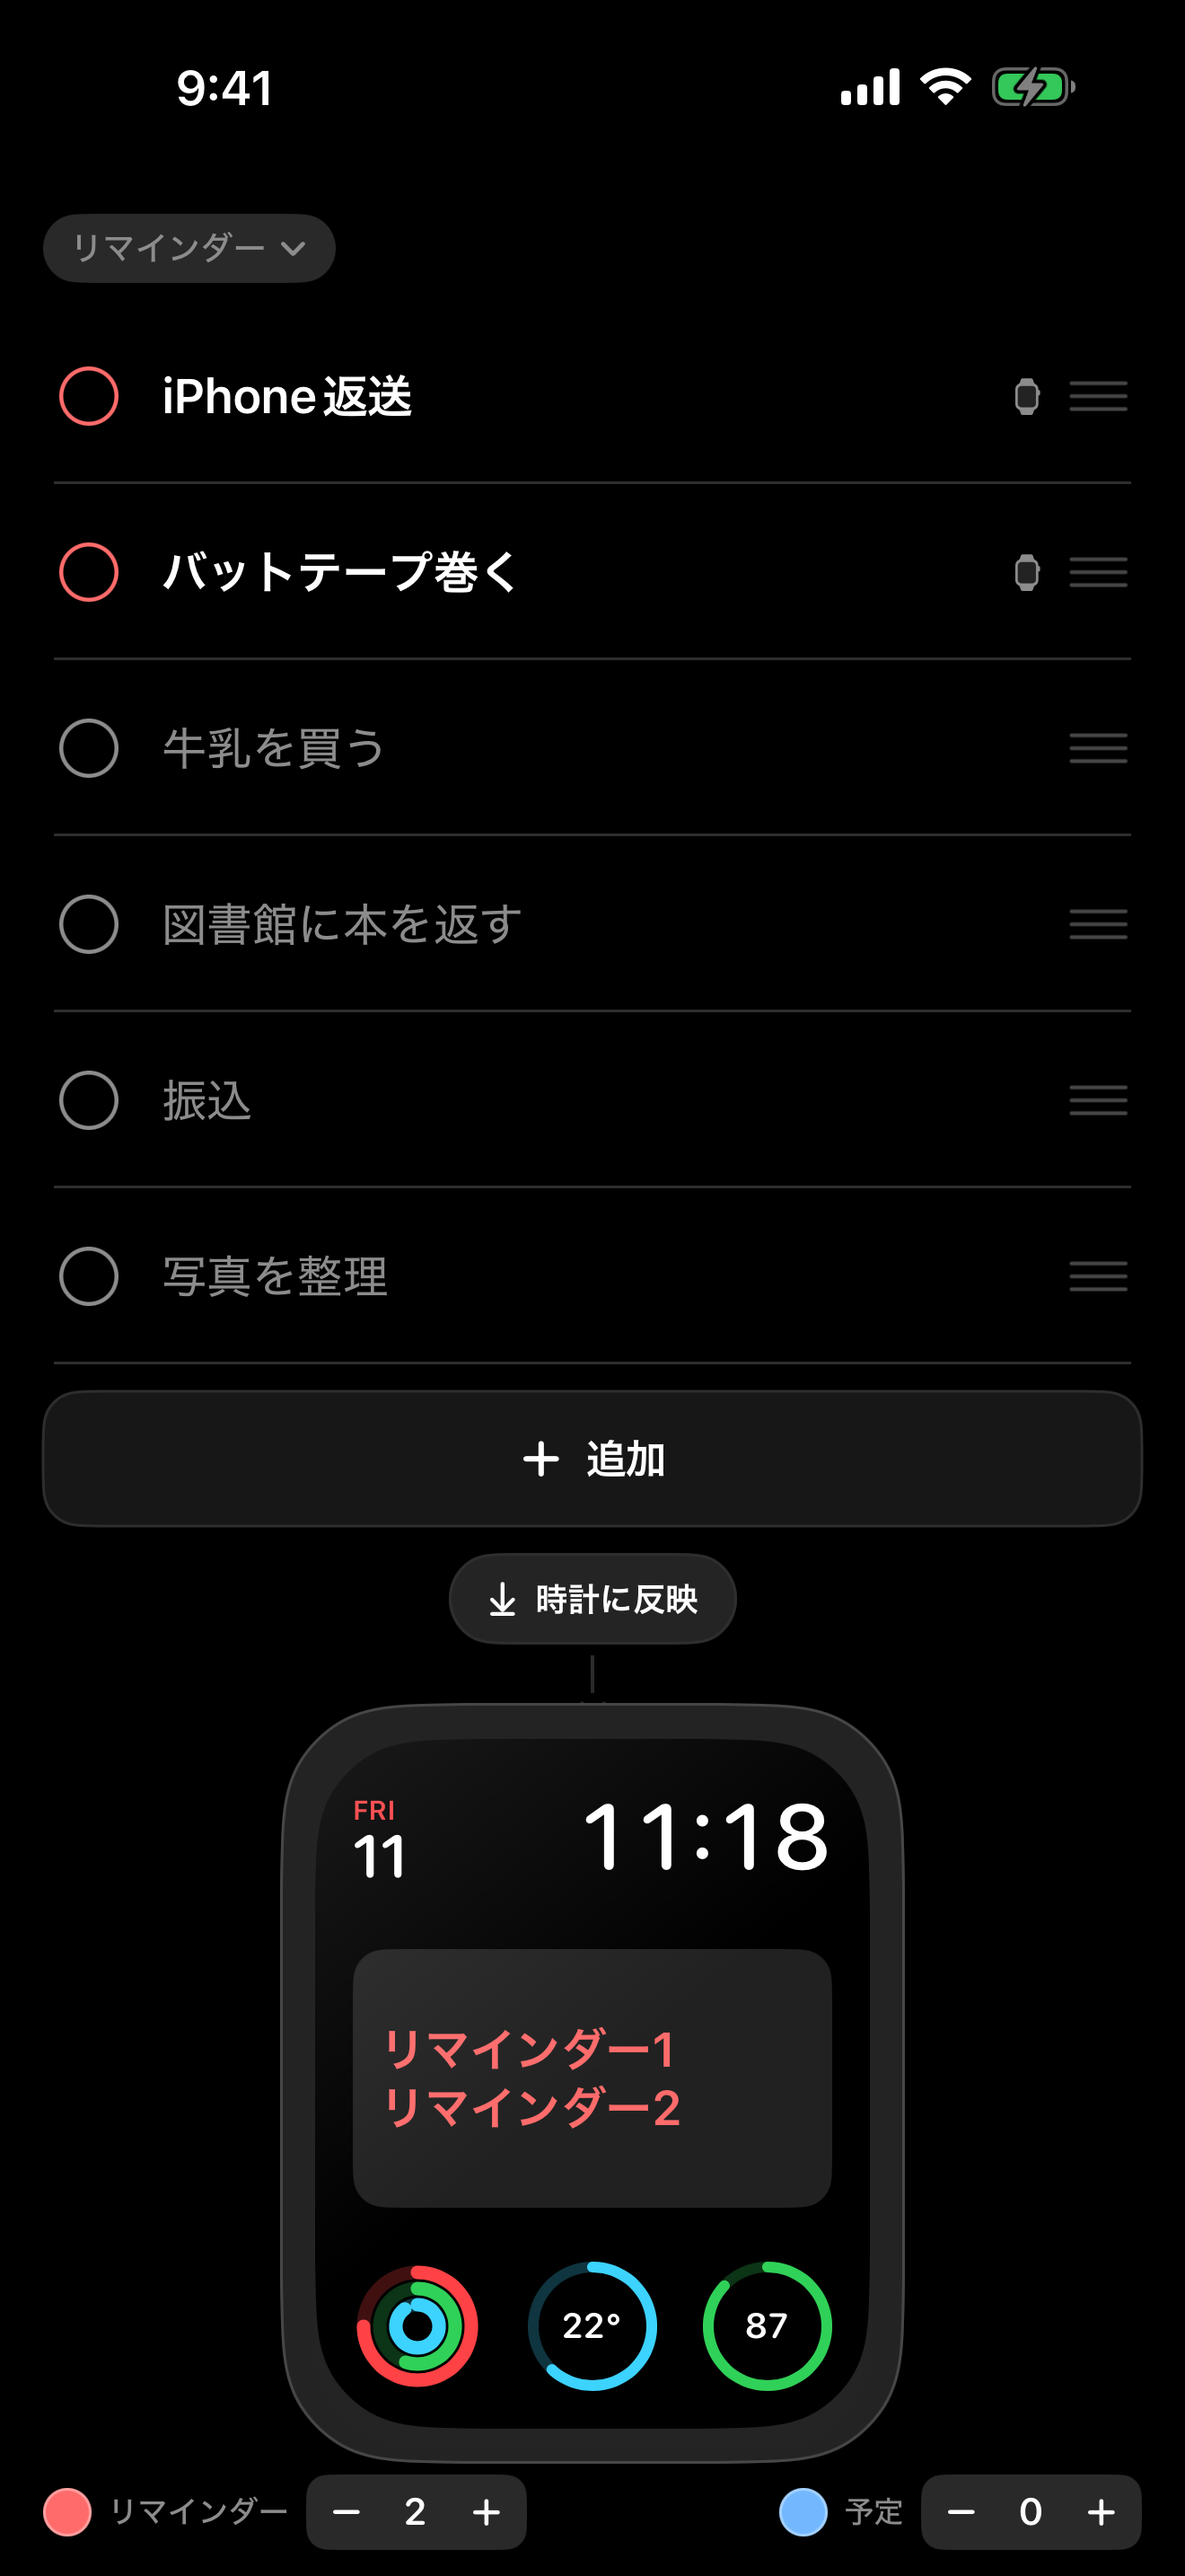
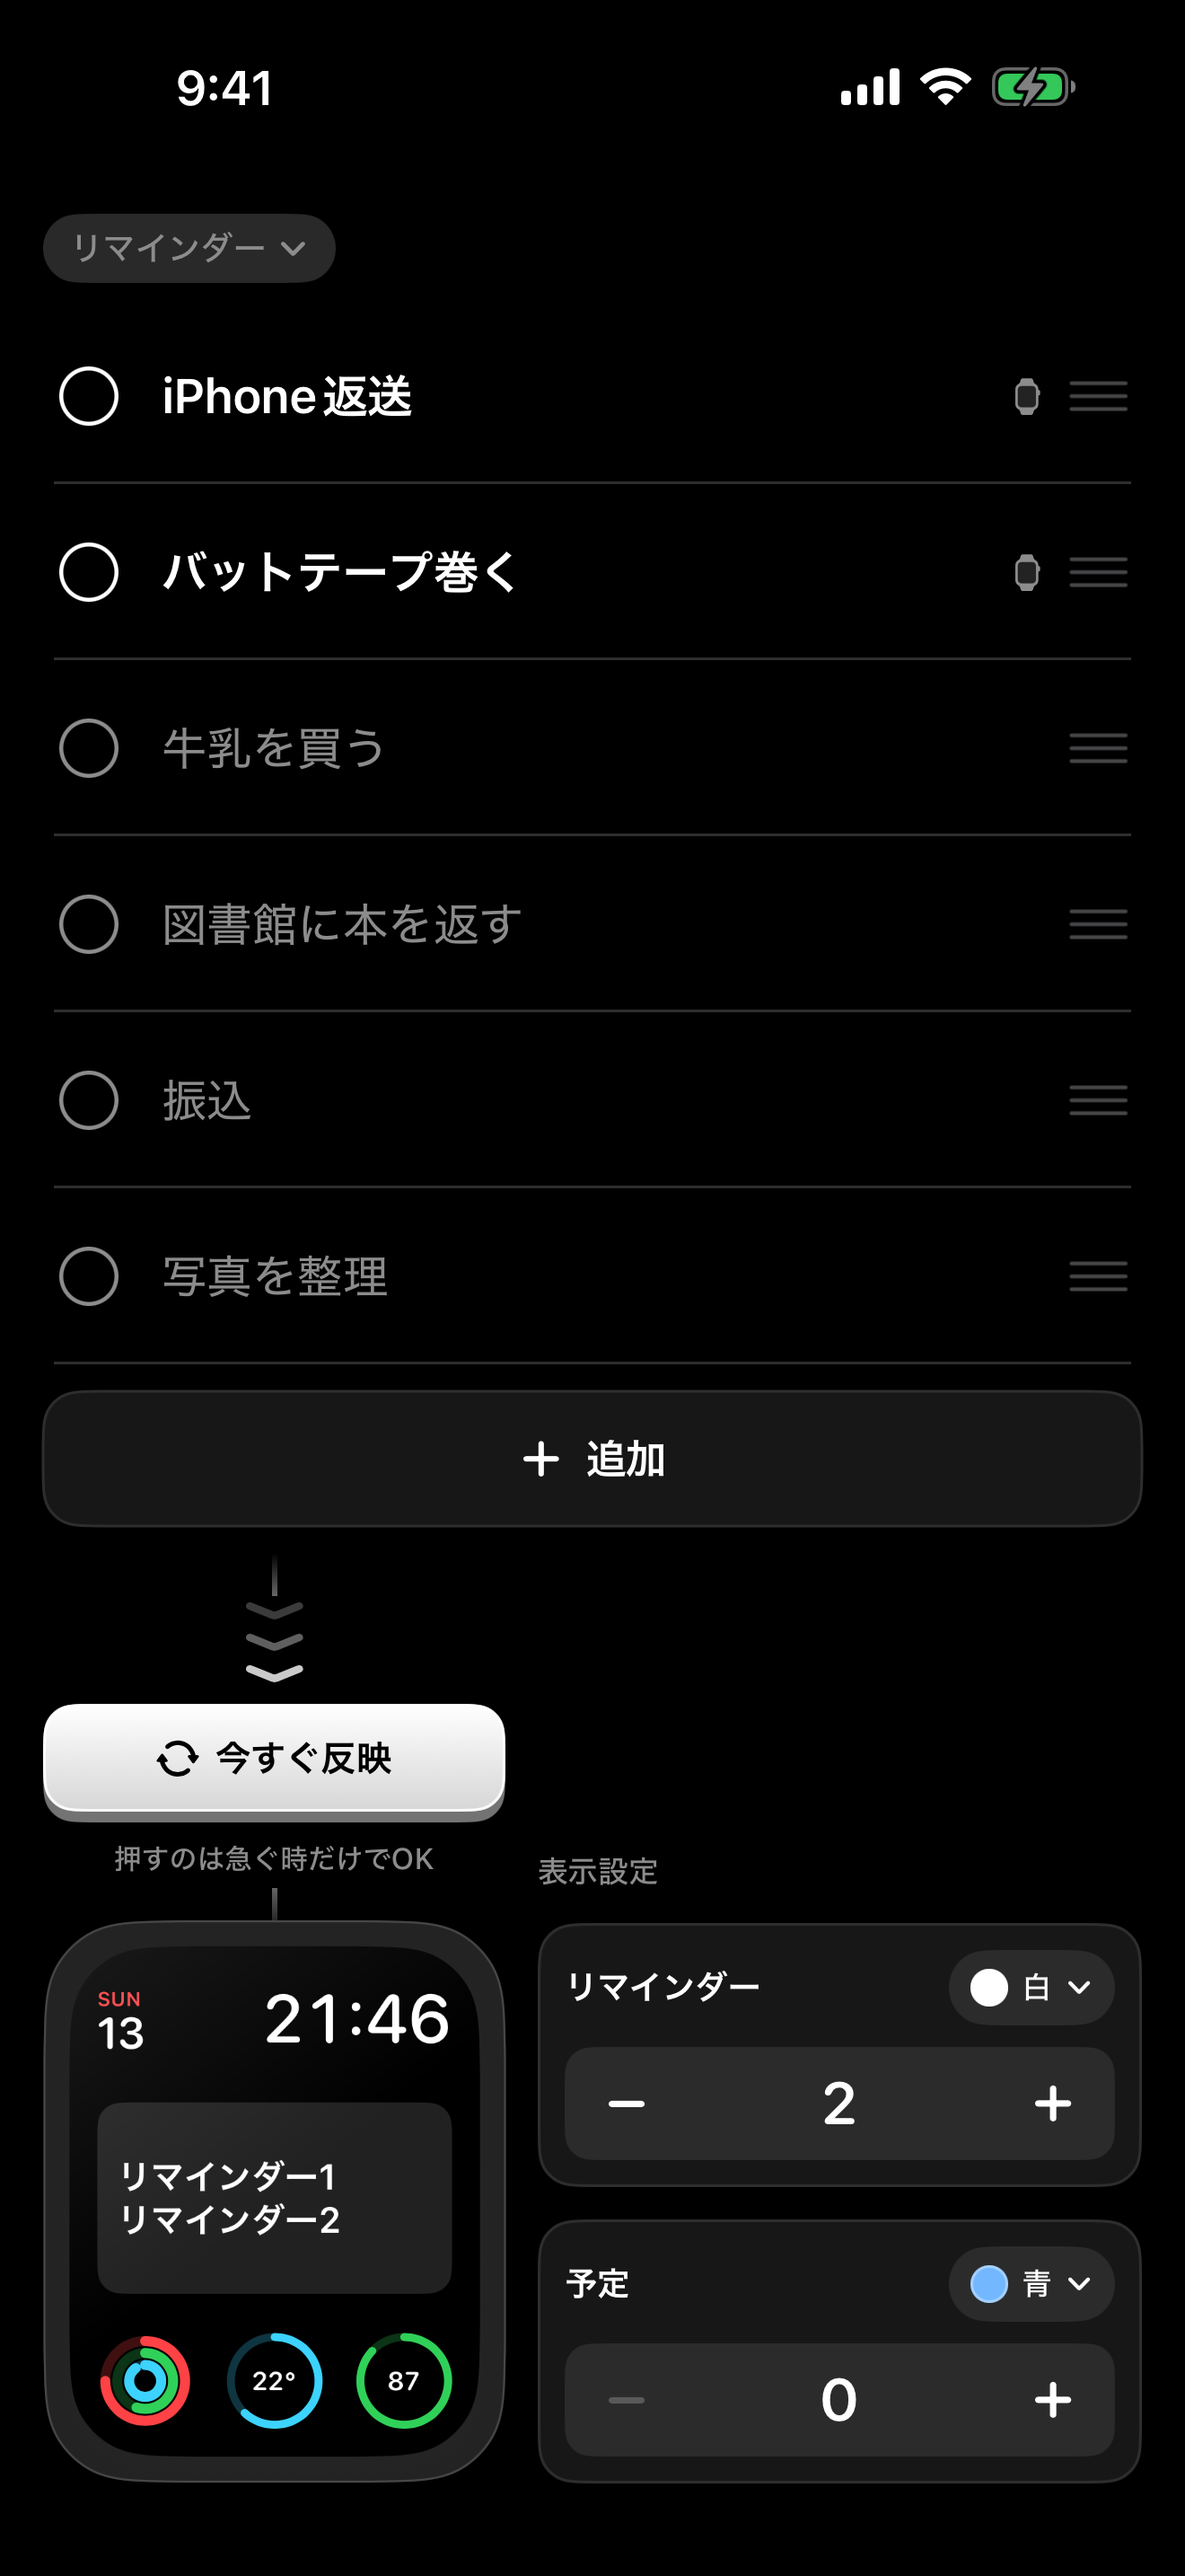
1.1 (4) の準備：アイコンを文字盤＋縁の図柄に、掲載画像を撮り直し (b44)
- アイコン：文字盤（曜日・日付・時刻・横長スロットに2行）を角丸の縁で囲む。
  竜頭・側面ボタン・バンドは描かない。本人判断で Apple Watch に近い「ギリギリ」を攻める
- 却下に備えた控え：store/icon-candidates/（06 丸い腕時計・03 目盛り＋リスト・10案の一覧）
  10案の描画は tools/icon-concepts.swift
- MARKETING_VERSION 1.1、ビルド番号 4
- DEBUG のみ：BT_SCROLL=bottom で一番下まで送る、BT_CONNECTED=1 で接続OKの表示
  （シミュレータでは Watch の状態が取れず、接続欄がいつも警告になるため）
- iPhone の掲載画像3枚を新しい画面で撮り直し

Changed region(s): [[0.0311, 0.5896, 0.9629, 0.993]]

diff --git a/iOS/ContentView.swift b/iOS/ContentView.swift
@@ -33,6 +33,21 @@ struct ContentView: View {
     private let dim = Color(white: 0.55)
 
     var body: some View {
+        ScrollViewReader { proxy in
+            content
+                .task {
+                    #if DEBUG
+                    // スクリーンショット用。BT_SCROLL=bottom で一番下（接続・投げ銭）まで送る
+                    if ProcessInfo.processInfo.environment["BT_SCROLL"] == "bottom" {
+                        try? await Task.sleep(for: .seconds(1.5))
+                        proxy.scrollTo("bottom", anchor: .bottom)
+                    }
+                    #endif
+                }
+        }
+    }
+
+    private var content: some View {
         List {
             // ── リスト切替 ────────────────────────────────────
             Section {
@@ -90,6 +105,7 @@ struct ContentView: View {
                     .listRowBackground(bg)
                     .listRowSeparator(.hidden)
                     .listRowInsets(EdgeInsets(top: 0, leading: 16, bottom: 32, trailing: 16))
+                    .id("bottom")
             }
         }
         .listStyle(.plain)
@@ -522,11 +538,25 @@ struct ContentView: View {
 
     // MARK: - 接続の状態（iPhone → Watch → 文字盤 の経路として見せる）
 
+    /// スクリーンショット用。BT_CONNECTED=1 で「Watch に届いて文字盤にも置いてある」状態を見せる。
+    /// シミュレータでは Watch アプリの有無や文字盤の配置が取れず、いつも警告が出てしまうため。
+    private var demoConnected: Bool {
+        #if DEBUG
+        ProcessInfo.processInfo.environment["BT_CONNECTED"] == "1"
+        #else
+        false
+        #endif
+    }
+
     private var statusGrid: some View {
-        let watchOK = session.isPaired && session.isWatchAppInstalled
-        let faceOK = watchOK && session.isComplicationEnabled
+        let paired = demoConnected || session.isPaired
+        let installed = demoConnected || session.isWatchAppInstalled
+        let onFace = demoConnected || session.isComplicationEnabled
+        let transfers = demoConnected ? 48 : session.remainingTransfers
+        let watchOK = paired && installed
+        let faceOK = watchOK && onFace
         let budget = 50.0
-        let remaining = Double(session.remainingTransfers)
+        let remaining = Double(transfers)
         return VStack(spacing: 18) {
             Text("接続")
                 .font(.system(size: 11, weight: .semibold, design: .monospaced))
@@ -538,11 +568,11 @@ struct ContentView: View {
                 HStack(spacing: 0) {
                     node("iphone", label: "iPhone", ok: true)
                     link(ok: watchOK)
-                    node("applewatch", label: session.isPaired ? "Watch" : "未ペアリング", ok: watchOK)
+                    node("applewatch", label: paired ? "Watch" : "未ペアリング", ok: watchOK)
                     link(ok: faceOK)
                     node("rectangle.inset.filled", label: faceOK ? "文字盤" : "未配置", ok: faceOK)
                 }
-                Text(connectionSummary(watchOK: watchOK, faceOK: faceOK))
+                Text(connectionSummary(paired: paired, installed: installed, onFace: onFace))
                     .font(.system(size: 13))
                     .foregroundStyle(faceOK ? Color.green : Color.orange)
                     .frame(maxWidth: .infinity, alignment: .leading)
@@ -555,7 +585,7 @@ struct ContentView: View {
                         .font(.system(size: 13, weight: .medium))
                         .foregroundStyle(dim)
                     Spacer()
-                    Text("\(session.remainingTransfers)")
+                    Text("\(transfers)")
                         .font(.system(size: 15, weight: .semibold, design: .rounded))
                         .foregroundStyle(.white)
                     + Text(" / 50")
@@ -577,7 +607,7 @@ struct ContentView: View {
                     .frame(maxWidth: .infinity, alignment: .leading)
             }
 
-            Text(session.lastResult)
+            Text(demoConnected ? "21:46 画面: 送信済み（文字盤を即時更新）" : session.lastResult)
                 .font(.system(size: 12, design: .monospaced))
                 .foregroundStyle(dim)
                 .frame(maxWidth: .infinity, alignment: .leading)
@@ -589,10 +619,10 @@ struct ContentView: View {
     }
 
     /// いまの接続状態を1行で言う。線が途切れている場所ごとに、何をすればいいかを添える。
-    private func connectionSummary(watchOK: Bool, faceOK: Bool) -> String {
-        if !session.isPaired { return "Apple Watch とペアリングされていません" }
-        if !session.isWatchAppInstalled { return "Watch に盤面タスクが入っていません。iPhone の Watch アプリからインストール" }
-        if !session.isComplicationEnabled { return "Watch には届きますが、文字盤に未配置。文字盤を長押し → 編集 → 横長スロットに盤面タスク" }
+    private func connectionSummary(paired: Bool, installed: Bool, onFace: Bool) -> String {
+        if !paired { return "Apple Watch とペアリングされていません" }
+        if !installed { return "Watch に盤面タスクが入っていません。iPhone の Watch アプリからインストール" }
+        if !onFace { return "Watch には届きますが、文字盤に未配置。文字盤を長押し → 編集 → 横長スロットに盤面タスク" }
         return "接続OK。変更は数秒で文字盤に反映されます"
     }
 

diff --git a/Shared/TaskStore.swift b/Shared/TaskStore.swift
@@ -3,7 +3,7 @@ import Foundation
 /// どのビルドが実機に入っているかを見分けるための印。コードを push するたびに増やす。
 /// iPhone / Watch の画面右上に極小で出る。文字盤には出さない。
 enum BuildInfo {
-    static let marker = "b43"
+    static let marker = "b44"
 }
 
 enum AppGroup {
